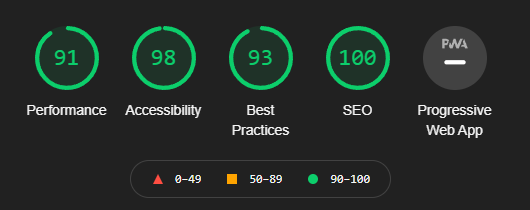
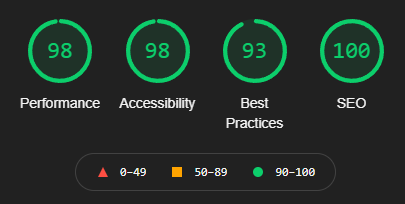
README update - new desktop lighthouse image added

diff --git a/index.html b/index.html
@@ -433,6 +433,7 @@
         integrity="sha384-MrcW6ZMFYlzcLA8Nl+NtUVF0sA7MsXsP1UyJoMp4YLEuNSfAP+JcXn/tWtIaxVXM" crossorigin="anonymous">
     </script>
     <script src="https://kit.fontawesome.com/ca6c583753.js" crossorigin="anonymous"></script>
+    <script src="assets/js/script.js"></script>
 </body>
 
 </html>

diff --git a/assets/js/script.js b/assets/js/script.js
@@ -1,0 +1,8 @@
+const navLinks = document.querySelectorAll('.nav-item')
+const menuToggle = document.getElementById('navbarSupportedContent')
+const bsCollapse = new bootstrap.Collapse(menuToggle)
+navLinks.forEach((l) => {
+    l.addEventListener('click', () => {
+        bsCollapse.toggle()
+    })
+})

diff --git a/README.md b/README.md
@@ -171,6 +171,8 @@ Technologies used are as follows.
    * Used to test different CSS styles in the browser, inspect pages for more information about elements and general debugging.
 10. [favicon.cc](https://www.favicon.cc/)
    * Used to create the favicon.ico.
+11. [TinyJPG](https://www.tinyjpg.com/)
+   * Used to reduce the size of images used.
 
 # Testing
 
@@ -238,12 +240,9 @@ Images below show the Lighthouse results on both mobile and desktop:
 1. Mobile:<br>![Mobile Lighthouse](assets/readme-content/mobile-lighthouse.PNG)
 1. Desktop:<br>![Desktop Lighthouse](assets/readme-content/desktop-lighthouse.PNG)
 ### Performance
-Initially a lower score was given for the Performance category, which was 80. The cause for this was regarding image sizes. 
+Initially a lower score was given for the Performance category, which was 80. The cause for this was the image sizes. [TinyJPG](https://www.tinyjpg.com/) was used to reduce the file sizes of these images, which increased the score.
 ### Accessibility
-enquire now text was original white and this was flagged as an issue, therefore changed in CSS.
-### Best Practices
-### SEO
-
+The text of the "Enquire now!" button in the landing page was originally white. This was flagged as a contrast issue and therefore changed to black to make it easier to read.
 
 # Deployment
 ## Project creation
